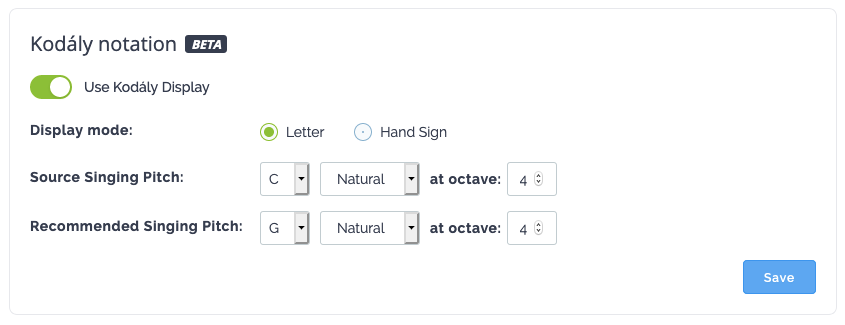
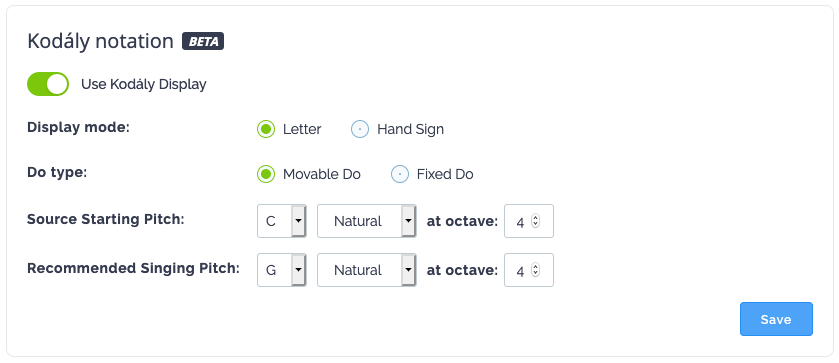
feat(kodaly): add doc for the "Do type"

diff --git a/docs/en/editor/kodaly.md b/docs/en/editor/kodaly.md
@@ -29,11 +29,16 @@ You can either choose to display notes as letters (do re mi fa so la ti), or as 
 ![Letters](/help/assets/img/editor/kodaly-letters.png)
 ![Hand Signs](/help/assets/img/editor/kodaly-hand-signs.png)
 
-### Source singing pitch & Recommended singing pitch
+### Do type
+You can either choose to use a **Fixed Do** or a **Movable Do**. 
+If you use a Fixed Do, the solfege notation will match the actual pitches that are sang. A "C" will be called a "Do". 
+If you use a Movable Do, the solfege notation will depend on the key. The tonic will be called a "Do". For instance if you are singing in "G", the "G" will be called a "Do", and The "A" will be called a "Re". 
+
+### Source starting pitch & Recommended singing pitch
 The source singing pitch is the "original" pitch of the song.
 The recommended singing pitch is the pitch that will be used for students to sing the song. 
 
-The Kodály notation is automatically transposed based on the source and recommended singing pitch. 
+The Kodály notation is automatically transposed based on the source and recommended singing pitch if you use a Fixed Do.  
 On this example, the source singing pitch is "C", and the recommended singing pitch is "G": 
 ![Transposed Kodály](/help/assets/img/editor/kodaly-transposed.png)
 
